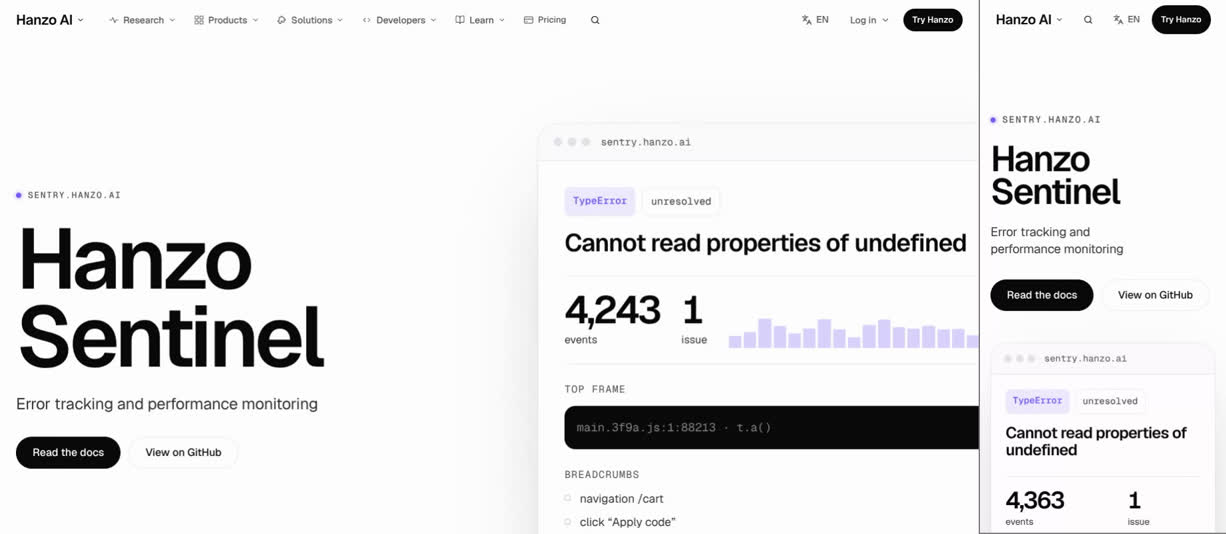
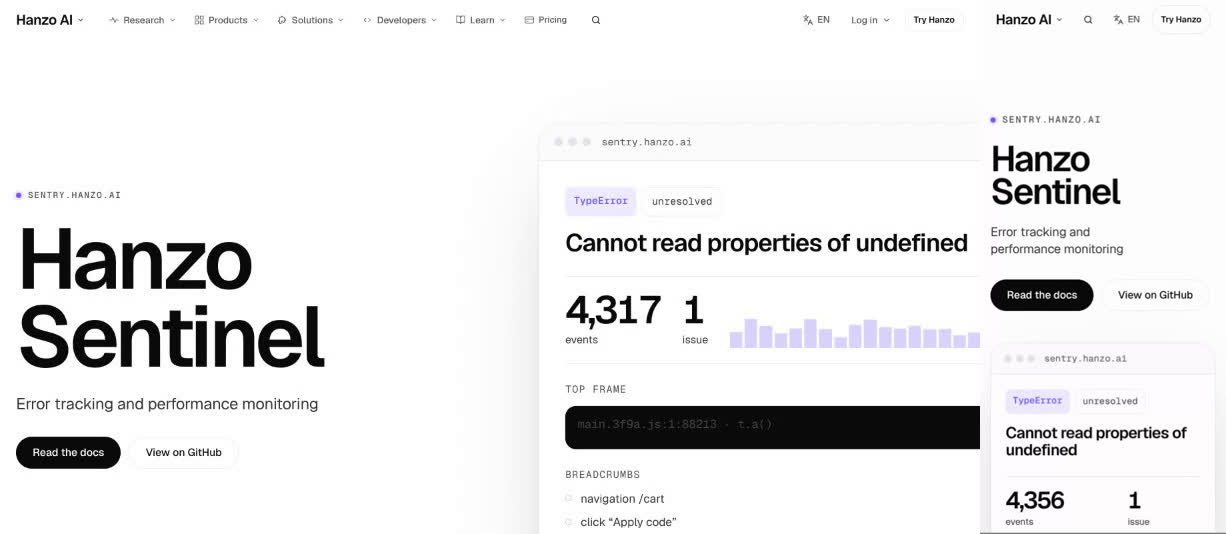
re-review: /sentinel still 6/10 (violet UI hue, eyebrow, ghost hero buttons; sticky ask and presses now fixed)
Claude-Session: https://claude.ai/code/session_01DqUybEnABm6Lfey1goid2b

diff --git a/docs/review/sentinel.md b/docs/review/sentinel.md
@@ -1,48 +1,88 @@
 # /sentinel: James-eye review
 
 Verdict: 6/10
-First complaint: "It's purple. I said greys, silvers, blacks and whites, and here the rain, the glow, the bars, the buttons and even the customer dots are purple and pink, with a red bar on top. There's a little label stuck over the headline again. And after the rain it's five still cards stacking up and the same 'Get' block as every other page."
+First complaint: "It's still purple. I said greys, silvers, blacks and whites, and the rain, the bars, the buttons and the customer dots are still purple and pink, with red on top. The little label is still stuck over the headline. And after the rain it's five still pictures in a stack."
 
-Reviewed: branch `claude/laughing-hamilton-uisesd` @ `d7f5f25` (merged to main at this commit; main has since changed the shared `v2/Launch.css`, which this walk did not see). Files hash: `41a6f73c0f12`
-Walked 7 Nov 13:54–13:58 UTC on the dev server, moving, at 1470×801 and 375×812 (videos, frame sheets and a frame-difference motion log kept by the critic; the site loader was skipped).
+Reviewed: main @ `dfe5ff5` (last page commit `486d6d0`). Files hash: `670aa11a3d68`
+Walked 7 Nov 14:19–14:21 UTC on the dev server, moving, at 1470×801 and 375×812 (videos, frame sheets and a frame-difference motion log kept by the critic; the site loader was skipped).
 Proof: `img/sentinel.jpg` (desktop first screen | phone first screen).
 
+## Since the last review
+- **Done: one ask per screen.** The shared ask bar now carries "Read the docs →". On desktop it is fixed at y=734 on screens s3 to s11, and on phone it is the bottom bar on s2 to s8. While it shows, the header's "Try Hanzo" turns to an outline, so each of those screens has exactly one solid button. Last time phone had two solid buttons on every screen and desktop had no page ask at all. Still open: the close's solid button is "Deploy to Cloud", a different verb from the bar's.
+- **Done: presses and JS-off.** The hero's "Read the docs" and "View on GitHub" and the close's "Deploy to Cloud" now press to 0.98. "Copy" now answers the hover and presses to 0.92. With JS off, 0 text runs are hidden (it was 8). The "hanzoai" chip still has no press.
+- **Open: colour and the label.** The hue counts are exactly the same as last time: violet 65 on desktop (24 fills, 28 text, 13 borders), red 8, and violet-to-pink account dots 9. `--ac: #7a5af8` and the rain's `#9d86ff` are still in the code, and "● SENTRY.HANZO.AI" still sits 24px above the h1 at both widths.
+- **Open: the ghosted hero and the late product.** The shared hero still fades the words and buttons to 16% and turns off their clicks below 20%. At s1 (y=650) both buttons sit at y=563 at 16% and ignore clicks. Because they count as "on screen", the ask bar also stays away, so that screen has no working solid button. The issue view still arrives 22% off the right edge at 1.16× size.
+- **Open: everything else from last time.** The sheet pictures 02–06 still have no motion of their own (`Pic` has none). The rain still runs through the 01/06 paragraph. "03 / 06" and "05 / 06" are still 4.2:1, "Copy" and "Agent prompt" are still 13px, and the chip is still 36px tall. There are still 10 bare `:hover` rules and 2 `setInterval` timers, and there is no coverage file. The page's own files changed by 7 lines, a reduced-motion hydration fix; everything that got better came from the shared kit.
+
 ## The 11 answers
-1. **Sells in 5 seconds, moves within 1 second?** Mostly. The words are clear ("Hanzo Sentinel / Error tracking and performance monitoring"), and the issue view is on the first screen at both widths: beside the title at 1470×801, and its top ("4,356 events · 1 issue") at the fold on phone. It runs itself: the count ticks up from 4,211, the histogram shifts, and every 3 s the top frame resolves from `main.3f9a.js:1:88213 · t.a()` to `checkout/cart.ts:42 · applyDiscount()`. Phone moves in the first second (10 of 25 frames). But on desktop the card arrives 22% off the right edge and 16% too big, so at first sight its right side runs off the screen and its breadcrumbs sit under the fold; it only settles as you scroll. And the movement is small: digits and thin lavender bars.
-2. **One in, one out, or a document?** Half. The hero pins for about 600px while its words fade and the card settles. The dark room is the real one in, one out: violet rain falls on a faint card, and as you scroll it is pulled into the card, whose count climbs to 10,000 and gets its "1 issue" chip (on phone it plays by itself every 8 s). Then five sheets (02–06) slide up over each other. That is a mechanism more than a story: each is a still drawing beside a paragraph, and nothing in them moves unless you tap the router in 05/06 (the sheet pictures have no animation in the code). On phone the sheets lie flat, so 02–06 read as five cards in a column. On desktop the dark room also stops once the count lands. (The desktop film lags the walk, so stillness here is read from the phone film and the code.)
-3. **A real object in every section?** Hero: yes, a live issue view. Dark room: yes, the rain and the card. 05/06: yes, the alert router, the best Beyond in this group: every pick reads back as a sentence ("A spike goes to Slack and opens the ticket in Jira"). 02/06 (trace bars) and 03/06 (release bars, cron row) are fine drawings but static. 04/06 is four rows reading "account 1" to "account 4" with coloured dots: a list, not a thing. 06/06 is a grey curve with two dots, close to an icon. The close has an agent prompt with a blinking caret and the "Get Sentinel" type, and no object.
-4. **One ask, sticky after the hero?** No. Hero: "Read the docs" (solid) and "View on GitHub" (outlined). On desktop nothing from the page follows you after the hero; from the third screen on, the header's "Try Hanzo" is the only sticky solid button. Worse, while the hero fades, its two buttons drop to 16% and stop taking clicks while still on screen (measured at y=563 on the second screen): for most of a screen they look disabled, and they are. Phone: the header's "Try Hanzo" and the bottom bar's "Read the docs →" are two solid asks on every screen from s2 to s8. The close's only solid button is a third verb, "Deploy to Cloud".
-5. **Every hover and press answers?** No. "Read the docs" and "View on GitHub" (hero), "Deploy to Cloud" and the "hanzoai" chip (close): hover answers, but there is no press state. "Copy" presses (0.95) but its hover is dead. The router pills answer well: a border on hover, a press of 0.96, and the sentence updates. Phone taps on "New issues", "regressions", "GitHub" and "GitLab" all answer. The magnetic pull on "Read the docs" and "Deploy to Cloud" is the only thing that follows the pointer: no tilt, no preview, no cursor-aware light.
-6. **Overlap, font swap, layout shift?** None measured. CLS 0.001 on desktop and 0 on phone; the h1 box changes once at 611 ms (its cut-in) and then holds; no horizontal scroll at 375 or 320. One visual clash: in the dark room the rain falls straight through the 01/06 paragraph, so the body text is read through a curtain of violet dashes.
-7. **Which reference, and is its motion there?** apple.com product page: the pinned, scrubbed dark room is there, and it is the page's moment. anthropic.com launch: the 120px "10,000 events / 1 issue" is a real hero figure, the closest any Cloud page has come. synchronized.studio (a card opens into its page): absent; the close has no related card at all. The stacked sheets are a scroll trick from the kit, not from a reference.
-8. **Different from its neighbours?** Partly. The side stage (title left, live issue view right, settling in from the edge) is its own first screen in the Cloud 4 group: /search centres its title over a blue search box, /stream sets the title over a teal partition tape, /telemetry puts the lede beside the title and an amber collector under it, and /metrics and /ledger put a strip on the fold. After the hero it is the kit: the "● X.HANZO.AI" eyebrow (as on /telemetry, /search and /metrics), one dark room with "01 / 06", numbered chapters to 06, and the "Get started with Hanzo X / Paste and ship / Get X / Deploy to Cloud" close. The dark room even repeats the hero's own layout (copy left, card right). What tells the pages apart is a colour each (violet here; orange /metrics, green /ledger, amber /telemetry, blue /search, teal /stream), which is the one-accent-per-page rule James replaced. James: "It's not just a template."
+1. **Sells in 5 seconds, moves within 1 second?** Mostly. The words are clear ("Hanzo Sentinel / Error tracking and performance monitoring"), and the live issue view sits beside the title at 1470×801. On phone its top ("4,350 events · 1 issue") shows at the fold. The page appears at about 2.0 s (the usual dev-server blank), and then the view runs itself. The count ticks up from 4,221 (4,328 by 5.5 s), the histogram shifts, and the top frame resolves from `main.3f9a.js:1:88213 · t.a()` to `checkout/cart.ts:42 · applyDiscount()`. Desktop has 10 of 51 frames moving in the rest of the 3 s idle, and phone has 14 of 25 in its first second. But on desktop the card still lands 22% off the right edge and 16% too big. At first sight its right side runs off the screen and its breadcrumbs sit under the fold, and it only settles as you scroll. The movement is small: digits and thin lavender bars.
+2. **One in, one out, or a document?** Half, and the same as last time. The hero pins for 601px while the words fade and the card settles. The dark room is the real one in, one out: violet rain falls past a faint card and is pulled into it as you scroll, the count climbs to 10,000 and the "1 issue" chip lands. On phone it plays by itself every 8 s (7,315 → 8,485 → 9,031 → 10,000 in the film). Then on desktop five sheets (02–06) slide up over each other, 18px apart. Each one is a still drawing beside a paragraph, and nothing in them moves unless you tap the router in 05/06. On phone the sheets lie flat, so 02–06 read as five cards in a column. Once the count lands, the particles freeze inside the card and the dark room is still. The desktop film fell behind the walk again (about two screens by the end) and never reached the "Get Sentinel" block, so stillness is read from the phone film and the code.
+3. **A real object in every section?** Hero: yes, the live issue view. Dark room: yes, the rain and the card. 05/06: yes, the alert router, still the best Beyond in this group. Every pick reads back as a sentence ("A regression goes to PagerDuty and opens the ticket in Jira"). 02/06 (trace bars) and 03/06 (release bars and the cron row) are fine drawings, but they are static. 04/06 is four rows from "account 1" to "account 4" with coloured dots: a list, not a thing. 06/06 is a grey curve with two dots, close to an icon. The close has an agent prompt with a blinking violet caret and the "Get Sentinel" type, and no object.
+4. **One ask, sticky after the hero?** Nearly. The hero has "Read the docs" (solid) and "View on GitHub" (outlined). From s3 to s11 on desktop and s2 to s8 on phone, the bottom bar's "Read the docs →" is the only solid button. Three things still break it:
+   - At s1 on desktop the only solid-looking buttons are the hero's two ghosts at 16%, and they ignore clicks.
+   - For one screen after the hero (desktop s2, phone s1), the solid ask is the header's "Try Hanzo" before it hands over to "Read the docs".
+   - The close's one solid button is a third verb, "Deploy to Cloud".
+5. **Every hover and press answers?** Mostly, now. These hover and press to 0.98: "Read the docs", "View on GitHub" and "Deploy to Cloud". "Copy" hovers and presses (0.92). The router pills show a border on hover, press to 0.96 and update the sentence. Phone taps on "New issues", "regressions", "GitHub" and "GitLab" all answer. The "hanzoai" chip hovers but has no press. "email" and "GitHub" read DEAD at s10 only because the 06/06 sheet had slid over the router and the pointer landed on it. The magnetic pull on "Read the docs" and "Deploy to Cloud" is the only thing that follows the pointer: no tilt, no preview, no cursor-aware light.
+6. **Overlap, font swap, layout shift?** None measured. CLS is 0 at both widths. The h1 box changes once (439 ms on desktop, 542 ms on phone, its cut-in) and then holds. There is no horizontal scroll at 375 or 320. Two visual clashes the walker does not measure:
+   - The rain falls straight through the 01/06 paragraph, so the body text is read through a curtain of violet dashes.
+   - On desktop the new ask bar's "Read the docs →" sits on the bottom-left corner of the "Paste and ship" card at the close.
+7. **Which reference, and is its motion there?** apple.com product page: the pinned, scrubbed dark room is there, and it is the page's moment. anthropic.com launch: the 120px "10,000 events / 1 issue" is a real hero figure. synchronized.studio (a card opens into its page) is absent; the close has no related card at all. The stacked sheets are a scroll trick from the kit, not from a reference.
+8. **Different from its neighbours?** Less than last time.
+   - /visor now uses the same side stage mirrored: a product panel arriving from the edge on one side and a two-line 128px "Hanzo X" on the other.
+   - /search centres its title over a blue search box, /telemetry puts the lede beside the title with an amber collector under it, and /tunnel puts an orange terminal on the fold.
+   - After the hero it is the kit: the "● X" eyebrow with a coloured dot (all five pages), one dark room with "01 / 06", numbered chapters to 06, and the "Get started with Hanzo X / Paste and ship / Get X / Deploy to Cloud" close.
+   - What tells the pages apart is one colour each: violet here, blue /search, amber /telemetry, orange /tunnel, pink /visor. That is the one-accent-per-page rule James replaced. James: "It's not just a template."
 9. **All 18 parts covered?** No; see below. `docs/coverage/sentinel.md` is missing.
 10. **Banned tells?** Yes:
-   - Violet UI hue throughout, declared in the file as "Accent: issue violet" (`--ac: #7a5af8`): the TypeError tag, histogram, source-map chip, "exception" dot, the rain, the card's glow and "1 issue" chip, the chapter numbers, the trace, profile and release bars, the cron dots, and the selected router pills and their hover border. Counted 65 times on desktop (h255). JAMES.md rule 7: the UI has 0 brand hues.
-   - Red (#e5484d) on the bad release bar and the missed cron dot (h360, 8 counts).
-   - Violet-to-magenta-to-pink account dots (hsl 255–321; h270/h300/h315, 9 counts).
-   - "● SENTRY.HANZO.AI" eyebrow 24px above the h1, at both widths.
-   - Dead buttons: the hero's two buttons stay on screen at 16% while ignoring clicks.
-11. **Copy untouched?** Yes. Parity 29/29 text and 3/3 links. The 27 added strings are demo data (the TypeError and its message, counts from 4,211, frames, breadcrumbs, "service a" to "service d", "account 1" to "account 4", production/staging) and UI labels ("when", "goes to", "opens a ticket in", "1 issue", "first seen · source map · breadcrumbs"). "10,000" is Hanzo's own "ten thousand events" in figures, and the fork label lifts Hanzo's 06/06 sentence. None is a new claim. For James, not the builder: Hanzo's 06/06 says "Functional Source License" while the "Get Sentinel" chip says "License: BSL-1.1". Both are Hanzo's words, and they disagree on one page.
+    - Violet UI hue throughout, declared in the file as "Accent: issue violet" (`--ac: #7a5af8`, rain `#9d86ff`). It colours:
+      - the TypeError tag, histogram and "exception" dot;
+      - the rain, the card's glow and the "1 issue" chip;
+      - the chapter numbers, and the trace, profile and release bars;
+      - the cron dots, the selected router pills and the prompt caret.
+      Counted 65 times on desktop and 24 on phone (h255). JAMES.md rule 7: the UI has 0 brand hues.
+    - Red (#e5484d) on the bad release bar and the missed cron dot (h360, 8 counts).
+    - Violet-to-magenta-to-pink account dots (`hsl(255…321)`; h270/h300/h315, 9 counts).
+    - The "● SENTRY.HANZO.AI" eyebrow 24px above the h1, at both widths.
+    - Dead buttons: the hero's two buttons stay on screen at 16% while ignoring clicks.
+11. **Copy untouched?** Yes. Parity is 29/29 text and 3/3 links. The 27 added strings are demo data and UI labels, the same set as last time:
+    - the error, frames and breadcrumbs, and counts from 4,211;
+    - "service a" to "service d", "account 1" to "account 4", production/staging;
+    - "when", "goes to", "opens a ticket in", "1 issue".
+    "10,000" is Hanzo's own "ten thousand events" in figures, and the fork label lifts Hanzo's 06/06 sentence. None is a new claim. For James, not the builder: Hanzo's 06/06 says "Functional Source License", while the "Get Sentinel" chip says "License: BSL-1.1". Both are on the page and they disagree.
 
 ## Missing from the 18 parts (PLAN-COMPONENTS §2.1–2.18, measured)
-- **2.1 Strategy / 4 Common gate:** no `Persona:`, `Goal:`, `CTA:` or metric id in the page header. Two solid buttons on every phone screen from s2 to s8 (see answer 4).
-- **2.3 First impression:** with JS off, the h1 shows, but 8 text runs are hidden, including the lede "Error tracking and performance monitoring" and both hero buttons (a P1 row). At 1470×801 the hero object starts cut by the right edge and the fold. No card opens into its page (Morph).
-- **2.4 Conversion:** 0 `data-cta`. The thumb bar's verb ("Read the docs") differs from the close's solid button ("Deploy to Cloud"). No page ask on desktop after the hero.
-- **2.6 Content:** "Agent prompt" and "Copy" at 13px on phone (floor 14), and "Copy" at 13px on desktop. In `Sentinel.css` the "release 1" to "release 6" labels and the "source map" chip are 12px. The rain crosses the 01/06 paragraph.
-- **2.7 Visual system:** violet, red, magenta and pink break the 0-hue override.
-- **2.8 Components:** 10 bare `:hover` rules and 4 raw `.x-btn` uses in the page's files. No press on the hero buttons, "Deploy to Cloud" or the "hanzoai" chip; the "Copy" hover is dead.
+- **2.1 Strategy / 4 Common gate:** no `Persona:`, `Goal:`, `CTA:` or metric id in the page header. The solid ask changes verb three times down the page: "Try Hanzo" for one screen, then "Read the docs", then "Deploy to Cloud".
+- **2.3 First impression:** at 1470×801 the hero object starts cut off by the right edge and the fold. For one screen after the pin, the hero's words and buttons hang at 16%. No card opens into its page (Morph).
+- **2.4 Conversion:** 0 `data-cta`. The close's solid button ("Deploy to Cloud") differs from the bar's verb ("Read the docs"). On desktop the bar covers the corner of the "Paste and ship" card.
+- **2.6 Content:** "Copy" is 13px at both widths and "Agent prompt" is 13px on phone (floor 14). In `Sentinel.css` the "release 1" to "release 6" labels and the "source map" chip are 12px on desktop. The rain crosses the 01/06 paragraph.
+- **2.7 Visual system:** violet, red, magenta and pink break the 0-hue override. A violet glow sits under the dark-room card.
+- **2.8 Components:** 10 bare `:hover` rules and 4 raw `.x-btn` uses in the page's files. The "hanzoai" chip has no press.
 - **2.9 Motion:** 2 `setInterval` timers (`Frame.jsx`). The sheet pictures 02–06 have no motion of their own, and the desktop dark room is still once the count lands. Reduced motion is good: everything comes to rest.
 - **2.11 Mobile:** the "hanzoai" chip is 36px tall (111×36), under 44px.
 - **2.12 Accessibility:** "03 / 06" and "05 / 06" in violet measure 4.2:1, under 4.5:1. The ticking issue and the rain have no pause control (WCAG 2.2.2).
-- **2.13 Performance:** the desktop walk was heavy to paint: one scroll step into the dark room took 8.4 s (the others 1.0–3.5 s), and the desktop film fell behind the walk from the second screen on (about 18 s by the end, so it never reached 06/06 or the close). The canvas redraws 900 particles every frame at up to 2× density while the room is on screen. Check it on a mid-range laptop before calling it done.
+- **2.13 Performance:** the step into the dark room took 5.7 s to paint, against 1.0–2.1 s for the others (it was 8.4 s). The desktop film fell about two screens behind the walk. The canvas still redraws 900 particles every frame at up to 2× density while the room is on screen.
 - **Coverage:** `docs/coverage/sentinel.md` is missing.
-- Passing: one h1, one main, no horizontal scroll at 320, no `title=` tooltips, no native selects, no raw img/video/table, reduced motion settles, CLS ≈ 0, h1 box steady.
+- Passing: one h1, one main, no horizontal scroll at 320, no `title=` tooltips, no native selects, no raw img/video/table. JS-off is legible (0 hidden runs), reduced motion settles, CLS 0 and the h1 box is steady. There is one solid ask per screen through the body at both widths.
 
 ## Fixes (in order)
-1. **Take the violet, red and pink out.** Set `--ac` to ink. Draw the histogram, the trace, profile and release bars and the cron dots in greys, and mark the slow span, the bad release and the missed cron with ink weight or a hatched fill. Make the rain white at low alpha, the "1 issue" chip an inverted ink chip, the selected router pills ink-filled and the account dots grey, and drop the violet glow under the card.
-2. **Delete the "● SENTRY.HANZO.AI" eyebrow above the h1** (drop the `kick` prop). The address already sits in the issue view's toolbar.
-3. **Never ghost the ask, and start the product whole.** Keep the hero buttons at full strength while the title and lede fade, and render the lede and buttons visible in server HTML so JS-off is legible. Start the issue view fully on screen at 1470×801 instead of 22% off the right edge.
-4. **One ask.** Use "Read the docs" in the hero, in a desktop sticky bar after the hero, in the phone bar, and as the one solid button in the "Get Sentinel" block; "Deploy to Cloud" and "View on GitHub" become the text row. Give every solid button a press of scale 0.98, and give "Copy" a hover.
-5. **Make each sheet's picture play once when it lands, then hold.** The slow span grows across the trace, release 5 drops while the others stand, the cron row ticks and misses one, the four accounts arrive one by one, and the fork line draws itself. After the count lands, keep a slow trickle of new events falling into the card so the dark room stays alive.
-6. **Keep the rain off the words, and write the coverage.** Mask the canvas behind the left five columns so the 01/06 paragraph sits on clean black, and add `docs/coverage/sentinel.md`.
+1. **Take the violet, red and pink out.**
+   - Set `--ac` to ink.
+   - Draw the histogram, the trace, profile and release bars and the cron dots in greys. Mark the slow span, the bad release and the missed cron with ink weight or a hatched fill.
+   - Make the rain white at low alpha and the "1 issue" chip an inverted ink chip.
+   - Fill the selected router pills with ink and make the account dots grey.
+   - Drop the violet glow under the card and the violet caret.
+2. **Delete the "● SENTRY.HANZO.AI" eyebrow above the h1** (drop the `kick` prop on `StageHero`). The address already sits in the issue view's toolbar.
+3. **Never leave a ghost button, and start the product whole.** Either keep the hero buttons at full strength until they scroll away, or fade them fully out at the end of the pin so the "Read the docs" bar takes over on the next screen. Never leave a 16% button that ignores clicks. Pass `travel` to `StageHero` so the issue view starts at its settled size and fully on screen at 1470×801.
+4. **One verb to the end.** Give the "Get Sentinel" block "Read the docs" as its one solid button, with "Deploy to Cloud" and "View on GitHub" as the outlined row. Put `data-ask-hide` on the "Paste and ship" block so the bar stops covering its corner. Give the "hanzoai" chip a press of 0.98 and a 44px hit area.
+5. **Make each sheet's picture play once when it lands, then hold.**
+   - The slow span grows across the trace.
+   - Release 5 drops while the others stand.
+   - The cron row ticks and misses one.
+   - The four accounts arrive one by one.
+   - The fork line draws itself.
+   After the count lands, keep a slow trickle of new events falling into the card so the dark room stays alive.
+6. **Keep the rain off the words, fix the small stuff, write the coverage.**
+   - Mask the canvas behind the 01/06 copy so the paragraph sits on clean black.
+   - Make the "0N / 06" numbers ink (this also fixes the 4.2:1).
+   - Set "Copy" and "Agent prompt" to 14px.
+   - Add `docs/coverage/sentinel.md`.
